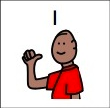
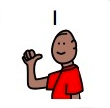
Added styling for buttons

Changed region(s): [[0.0, 0.0, 1.0, 1.0]]

diff --git a/static/things.html b/static/things.html
@@ -1,18 +1,22 @@
 <div class="prompt">
-    <span>Ask for </span>
-    <img ng-src="images/{{item}}.png"/>
+    <span><img class="promptPic" src="images/ask.png" alt="ask for" /></span>
+    <img class="promptPic" ng-src="images/{{item}}.png"/>
 </div>
 <div class="chainUrl">
-  <span ng-if="currentIndex === 1 || currentIndex === 2 || currentIndex === 3"><img ng-src="images/{{expectedResult[0]}}.png"/></span><span ng-if="currentIndex === 2 || currentIndex === 3"><img ng-src="images/{{expectedResult[1]}}.png"/></span><span ng-if="currentIndex === 3"><img ng-src="images/{{expectedResult[2]}}.png"/></span>
+  <span ng-if="currentIndex === 1 || currentIndex === 2 || currentIndex === 3"><img class="chainPic" ng-src="images/{{expectedResult[0]}}.png"/></span>
+  <span ng-if="currentIndex === 2 || currentIndex === 3"><img class="chainPic" ng-src="images/{{expectedResult[1]}}.png"/></span>
+  <span ng-if="currentIndex === 3"><img class="chainPic" ng-src="images/{{expectedResult[2]}}.png"/></span>
 </div>
-<div ng-if="currentIndex === 0">
-  <button ng-click="firstClicked(expectedResult[0])"><img ng-src="images/{{expectedResult[0]}}.png"/></button>
-</div>
-<div ng-if="currentIndex === 1">
-  <button ng-click="secondClicked(expectedResult[1])"><img ng-src="images/{{expectedResult[1]}}.png"/></button>
-</div>
-<div class="board" ng-if="currentIndex === 2">
-  <div ng-repeat="thing in things">
-    <button id="{{thing}}" ng-disabled="checkDisabled(thing)"><img ng-click="thirdClicked(thing)" ng-src="images/{{thing}}.png"/></button>
+<div class="options">
+  <div ng-if="currentIndex === 0">
+    <button ng-click="firstClicked(expectedResult[0])"><img ng-src="images/{{expectedResult[0]}}.png"/></button>
+  </div>
+  <div ng-if="currentIndex === 1">
+    <button ng-click="secondClicked(expectedResult[1])"><img ng-src="images/{{expectedResult[1]}}.png"/></button>
+  </div>
+  <div class="board" ng-if="currentIndex === 2">
+    <div ng-repeat="thing in things">
+      <button id="{{thing}}" ng-disabled="checkDisabled(thing)"><img ng-click="thirdClicked(thing)" ng-src="images/{{thing}}.png"/></button>
+    </div>
   </div>
 </div>

diff --git a/static/css/style.css b/static/css/style.css
@@ -1,3 +1,13 @@
+img {
+  height: 150px;
+}
+
+button {
+  background-color: white;
+  border: 4px solid lightblue;
+  border-radius: 10px;
+}
+
 .prompt {
   display: flex;
   justify-content: center;
@@ -17,4 +27,41 @@
 .disabled {
   color: gray;
 
+}
+
+.chainUrl {
+  height: 150px;
+  display: flex;
+  align-items: center;
+  justify-content: center;
+  background-color: #ffb2ff;
+  border: 2px solid #ffb2ff;
+  padding: 12px;
+  margin-top: 10px;
+  margin-bottom: 10px;
+}
+
+.chainPic {
+  border: 4px solid lime;
+  border-radius: 10px;
+  margin-left: 5px;
+  margin-right: 5px;
+}
+
+.options {
+  height: 150px;
+  display: flex;
+  align-items: center;
+  justify-content: center;
+  /*border: 2px solid blue;*/
+  padding: 12px;
+  margin-top: 10px;
+  margin-bottom: 10px;
+}
+
+.promptPic {
+  border: 4px solid red;
+  border-radius: 10px;
+  margin-left: 5px;
+  margin-right: 5px;
 }
